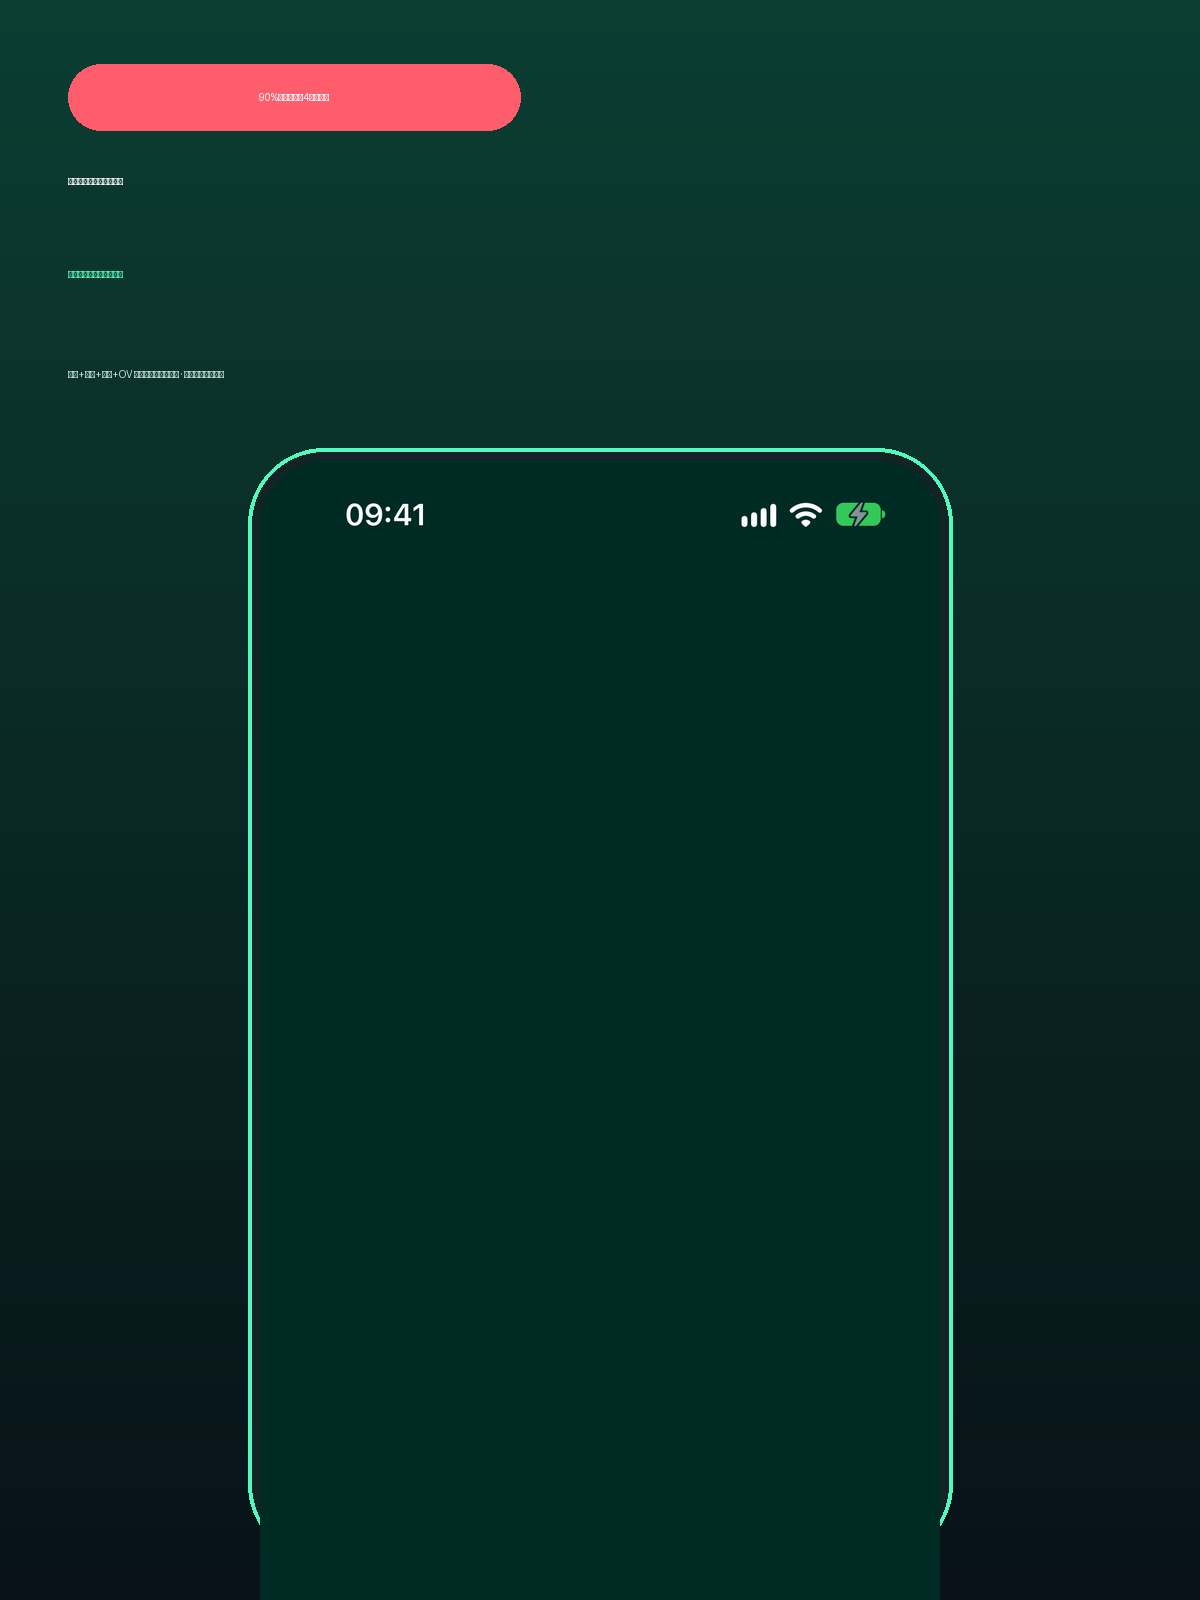
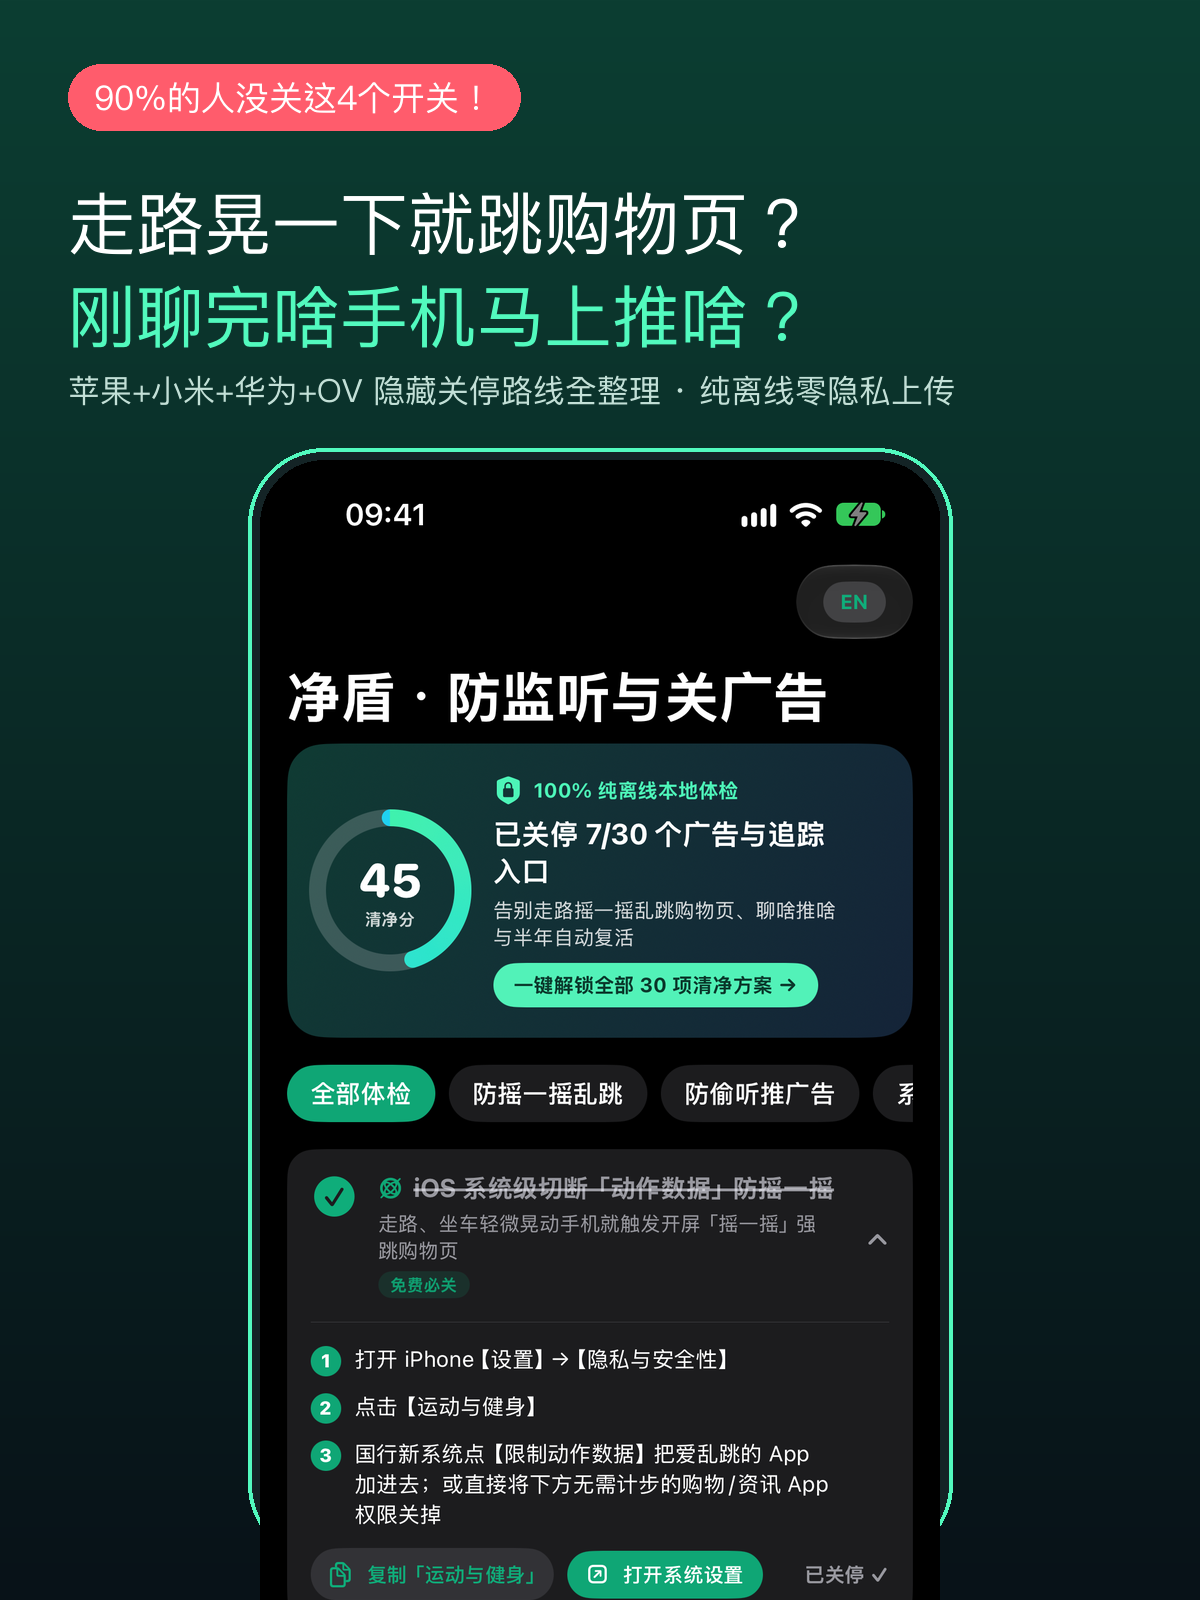
fix: full PingFang GB18030 glyph coverage & high-contrast pill badges

diff --git a/Scripts/generate_media_pack.py b/Scripts/generate_media_pack.py
@@ -23,8 +23,9 @@ MEDIA_ROOT = Path("/Users/wang/OPC/media/20261119-clean-shield")
 RELEASE_DIR = Path("/Users/wang/OPC/projects/clean-shield/release")
 
 FONT_CANDIDATES = [
-    "/System/Library/PrivateFrameworks/FontServices.framework/Versions/A/Resources/Reserved/PingFangUI.ttc",
     "/System/Library/AssetsV2/com_apple_MobileAsset_Font8/86ba2c91f017a3749571a82f2c6d890ac7ffb2fb.asset/AssetData/PingFang.ttc",
+    "/System/Library/Fonts/STHeiti Medium.ttc",
+    "/System/Library/PrivateFrameworks/FontServices.framework/Versions/A/Resources/Reserved/PingFangUI.ttc",
 ]
 
 
@@ -121,12 +122,12 @@ def render_appstore_board(raw_shot: Path, badge: str, headline1: str, headline2:
     f_h1 = load_font(74, index=1)
     f_sub = load_font(40, index=0)
 
-    # Pill badge
+    # Pill badge (high-contrast dark emerald fill with bright mint text)
     bbox = draw.textbbox((0, 0), badge, font=f_badge)
-    bw = (bbox[2] - bbox[0]) + 64
+    bw = (bbox[2] - bbox[0]) + 68
     bx = (W - bw) // 2
-    draw.rounded_rectangle((bx, 110, bx + bw, 184), radius=37, fill=(34, 227, 156, 42), outline=(58, 242, 178, 150), width=3)
-    draw.text((W // 2, 147), badge, font=f_badge, fill=(78, 250, 188), anchor="mm")
+    draw.rounded_rectangle((bx, 110, bx + bw, 184), radius=37, fill=(14, 72, 58, 255), outline=(82, 250, 190, 220), width=3)
+    draw.text((W // 2, 147), badge, font=f_badge, fill=(110, 255, 202), anchor="mm")
 
     draw.text((W // 2, 265), headline1, font=f_h1, fill=(255, 255, 255), anchor="mm")
     draw.text((W // 2, 360), headline2, font=f_h1, fill=(82, 250, 190), anchor="mm")
@@ -212,11 +213,11 @@ def render_xhs_and_xianyu(shots: dict[str, Path]) -> None:
     dx.text((100, 235), "手机去广告 & 防摇一摇", font=load_font(74, 1), fill=(255, 255, 255))
     dx.text((100, 340), "全套懒人清净配置包", font=load_font(74, 1), fill=(82, 250, 190))
     bullets = [
-        "✓ 覆盖小米澎湃 / 华为鸿蒙 / OPPO / vivo / 荣耀 / 苹果",
-        "✓ 3 分钟彻底废掉开屏「摇一摇乱跳购物页」",
-        "✓ 30 大软件隐藏监听与个性化广告开关一步一图",
-        "✓ 附加密私人 DNS 零误杀白名单 + 电脑一键停用广告脚本",
-        "✓ 拍下秒发全套离线图文包 + 在线一键寻路工具直链",
+        "● 覆盖小米澎湃 / 华为鸿蒙 / OPPO / vivo / 荣耀 / 苹果",
+        "● 3 分钟彻底废掉开屏「摇一摇乱跳购物页」",
+        "● 30 大软件隐藏监听与个性化广告开关一步一图",
+        "● 附加密私人 DNS 零误杀白名单 + 电脑一键停用广告脚本",
+        "● 拍下秒发全套离线图文包 + 在线一键寻路工具直链",
     ]
     by = 490
     for b in bullets:
